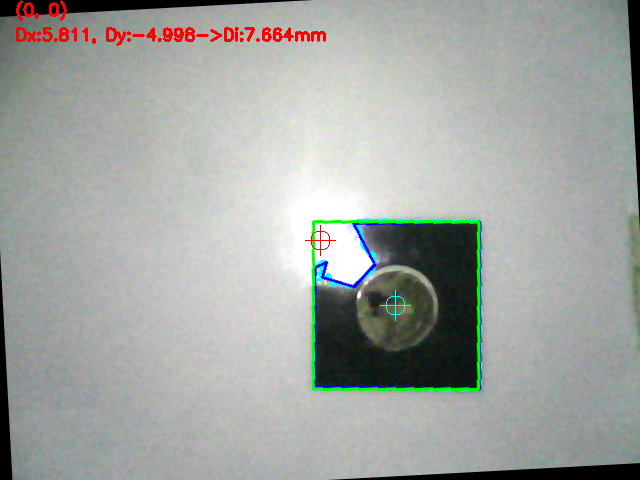
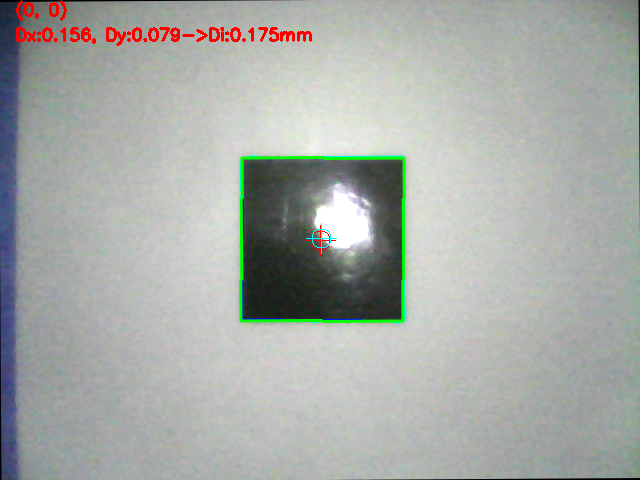
Updates to include graph of points

diff --git a/GroundControl-master/OpticalCalibration/opticalCalibrationCanvas.py b/GroundControl-master/OpticalCalibration/opticalCalibrationCanvas.py
@@ -109,11 +109,15 @@ class OpticalCalibrationCanvas(GridLayout):
     HomingBRX = +2
     HomingBRY = -2
     counter =0
+    bedHeight = 48*25.4
+    bedWidth = 96*25.4
 
     #def initialize(self):
 
     def initialize(self):
         xyErrors = self.data.config.get('Computed Settings', 'xyErrorArray')
+        bedHeight = self.data.config.get('Maslow Settings', 'bedHeight')
+        bedWidth = self.data.config.get('Maslow Settings', 'bedWidth')
         self.calErrorsX, self.calErrorsY = maslowSettings.parseErrorArray(xyErrors, True)
         #print str(xErrors[2][0])
 
@@ -132,6 +136,15 @@ class OpticalCalibrationCanvas(GridLayout):
 
         inAutoMode = False
         inAutoModeForFirstTime = True
+
+        mat = Matrix().scale(.2, .2, 1)
+        self.ids.opticalScatter.apply_transform(mat, (0,0))
+        moveVertical = self.bedHeight/2
+        moveHorizontal = self.bedWidth/2
+        mat = Matrix().translate(moveHorizontal, moveVertical, 0)
+        self.ids.opticalScatter.apply_transform(mat)
+
+        self.drawCalibration()
 
     def stopCut(self):
         self.data.quick_queue.put("!")
@@ -198,6 +211,24 @@ class OpticalCalibrationCanvas(GridLayout):
                 print "Value not int"
                 self.ids.bottomRightY.text = ""
 
+    def on_SaveCSV(self):
+        outFile = open("calibrationValues.csv","w")
+        line = ""
+        for y in range(7, -8, -1):
+            line = ""
+            for x in range(-15, 16, +1):
+                line += "{:.2f},".format(self.calErrorsX[x+15][7-y])
+            line +="\n"
+            outFile.write(line)
+        outFile.write("\n")
+        for y in range(7, -8, -1):
+            line = ""
+            for x in range(-15, 16, +1):
+                line += "{:.2f},".format(self.calErrorsY[x+15][7-y])
+            line +="\n"
+            outFile.write(line)
+        outFile.close()
+
     def on_Preset(self, preset):
 
         self.ids.topLeftX.text = str(self.presets[preset][0][0])
@@ -245,6 +276,60 @@ class OpticalCalibrationCanvas(GridLayout):
     #    print "len:"+str(len(c))+", tolerance:"+str(tolerance)
         return _c #_c is the smallest approximation we can find with four our more
 
+    def drawCalibration(self):
+
+        for y in range(7, -8, -1):
+            points = []
+            for x in range(-15, 16, +1):
+                points.append(x*3*25.4+self.bedWidth/2.0)
+                points.append(y*3*25.4+self.bedHeight/2.0)
+            with self.ids.opticalScatter.canvas:
+                Color(0,0,1)
+                Line(points=points)
+
+        for x in range(-15, 16, +1):
+            points = []
+            for y in range(7, -8, -1):
+                points.append(x*3*25.4+self.bedWidth/2.0)
+                points.append(y*3*25.4+self.bedHeight/2.0)
+            with self.ids.opticalScatter.canvas:
+                Color(0,0,1)
+                Line(points=points)
+
+        for y in range(7, -8, -1):
+            points = []
+            for x in range(-15, 16, +1):
+                points.append(x*3*25.4+self.calErrorsX[x+15][7-y]+self.bedWidth/2.0)
+                points.append(y*3*25.4+self.calErrorsY[x+15][7-y]+self.bedHeight/2.0)
+            with self.ids.opticalScatter.canvas:
+                Color(1,0,0)
+                Line(points=points)
+
+        for x in range(-15, 16, +1):
+            points = []
+            for y in range(7, -8, -1):
+                points.append(x*3*25.4+self.calErrorsX[x+15][7-y]+self.bedWidth/2.0)
+                points.append(y*3*25.4+self.calErrorsY[x+15][7-y]+self.bedHeight/2.0)
+            with self.ids.opticalScatter.canvas:
+                Color(1,0,0)
+                Line(points=points)
+
+    def on_touch_up(self, touch):
+
+        if touch.is_mouse_scrolling:
+            self.zoomCanvas(touch)
+
+    def zoomCanvas(self, touch):
+        if touch.is_mouse_scrolling:
+            scaleFactor = .1
+            if touch.button == 'scrollup':
+                mat = Matrix().scale(1-scaleFactor, 1-scaleFactor, 1)
+                self.ids.opticalScatter.apply_transform(mat, anchor = touch.pos)
+            elif touch.button == 'scrolldown':
+                mat = Matrix().scale(1+scaleFactor, 1+scaleFactor, 1)
+                self.ids.opticalScatter.apply_transform(mat, anchor = touch.pos)
+
+
     def updateScreenValues(self):
         self.ids.OpticalCalibrationDistance.text = " pixels\mm: {:.3f}\n".format(self.D)#Cal Error({:.3f},{:.3f})\n".format(self.D, self.calX, self.calY)
         calX = 0
@@ -264,6 +349,10 @@ class OpticalCalibrationCanvas(GridLayout):
         calX = math.sqrt(calX/count)
         calY = math.sqrt(calY/count)
         self.ids.OpticalCalibrationDistance.text += "X,Y Offset RMS: {:.3f}, {:.3f}\n".format(calX,calY)
+        self.drawCalibration()
+
+
+
 
 
     def removeOutliersAndAverage(self, data):
@@ -313,6 +402,7 @@ class OpticalCalibrationCanvas(GridLayout):
             self.HomingY = 0.0
             self.HomingPosX = minX
             self.HomingPosY = minY
+            self.HomingScanDirection = 1
             self.inAutoMode = True
         else:
             # note, the self.HomingX and self.HomingY are not reinitialzed here
@@ -360,7 +450,9 @@ class OpticalCalibrationCanvas(GridLayout):
         dyList = np.zeros(shape=(10))#[-9999.9 for x in range(10)]
         diList = np.zeros(shape=(10))#[-9999.9 for x in range(10)]
         print "here"
-        for x in range(10):  #review 10 images
+        x = 0
+        while True:
+        #for x in range(10):  #review 10 images
             #print x
             ret, image = self.ids.KivyCamera.getCapture()
             if ret:
@@ -423,7 +515,7 @@ class OpticalCalibrationCanvas(GridLayout):
                     sin = math.sin(angle*3.141592/180.0)
                     if (_angle<30):
                         _angle = _angle *-1.0
-                    print _angle
+                    #print _angle
                     xB,yB = self.translatePoint(xB,yB,xA,yA,_angle)
 
                     #cv2.drawContours(orig, [box.astype("int")], -1, (0, 255, 0), 2)
@@ -444,33 +536,43 @@ class OpticalCalibrationCanvas(GridLayout):
                     dxList[x] = Dx
                     dyList[x] = Dy
                     diList[x] = Dist
-        print "Done Analyzing"
+                    x +=1
+                    print "Processed Image #"+str(x)
+                    if (x==10):
+                        break
+        print "Done Analyzing Images.. Now Averaging and Removing Outliers"
         if dxList.ndim != 0 :
             avgDx, stdDx = self.removeOutliersAndAverage(dxList)
             avgDy, stdDy = self.removeOutliersAndAverage(dyList)
             avgDi, stdDi = self.removeOutliersAndAverage(diList)
-            cv2.putText(orig, "("+str(self.HomingPosX)+", "+str(self.HomingPosY)+")",(15, 15),cv2.FONT_HERSHEY_SIMPLEX, 0.55, colors[0], 2)
-            cv2.putText(orig, "Dx:{:.3f}, Dy:{:.3f}->Di:{:.3f}mm".format(Dx,Dy,Dist), (15, 40),cv2.FONT_HERSHEY_SIMPLEX, 0.55, colors[0], 2)
-            self.ids.MeasuredImage.update(orig)
-            self.HomingX += avgDx#-self.calX
-            self.HomingY += avgDy#-self.calY
-            print "testing location"
-            if doCalibrate!=True:  #its either True because you pressed the calibrate button or its a distance from the measurement callback.
-                if ((abs(avgDx)>=0.125) or (abs(avgDy)>=0.125)):
-                    print "Adjusting Location"
-                    self.HomeIn()
-                else:
-                    print "Averagedx="+str(avgDx)+", Averagedy="+str(avgDy)
-                    print str(self.HomingPosX+15)+", "+str(7-self.HomingPosY)+", "+str(self.HomingX)
-                    self.calErrorsX[self.HomingPosX+15][7-self.HomingPosY] = self.HomingX
-                    self.calErrorsY[self.HomingPosX+15][7-self.HomingPosY] = self.HomingY
-                    self.updateScreenValues()
-                    if (self.inAutoMode):
-                        self.on_AutoHome()
-                    else:
-                        print "Done"
+            if ( math.isnan(avgDx) or math.isnan(avgDy) ):
+                print "Value is not a number: "+str(avgDx)+", "+str(avgDy)
+                for x in range(len(dxList)):
+                    print str(x)+": "+dxList[x]+", "+dyList[y]
+                print "Aboring process."
             else:
-                self.updateScreenValues()
+                cv2.putText(orig, "("+str(self.HomingPosX)+", "+str(self.HomingPosY)+")",(15, 15),cv2.FONT_HERSHEY_SIMPLEX, 0.55, colors[0], 2)
+                cv2.putText(orig, "Dx:{:.3f}, Dy:{:.3f}->Di:{:.3f}mm".format(Dx,Dy,Dist), (15, 40),cv2.FONT_HERSHEY_SIMPLEX, 0.55, colors[0], 2)
+                self.ids.MeasuredImage.update(orig)
+                self.HomingX += avgDx#-self.calX
+                self.HomingY += avgDy#-self.calY
+                print "testing location"
+                if doCalibrate!=True:  #its either True because you pressed the calibrate button or its a distance from the measurement callback.
+                    if ((abs(avgDx)>=0.125) or (abs(avgDy)>=0.125)):
+                        print "Adjusting Location"
+                        self.HomeIn()
+                    else:
+                        print "Averagedx="+str(avgDx)+", Averagedy="+str(avgDy)
+                        print str(self.HomingPosX+15)+", "+str(7-self.HomingPosY)+", "+str(self.HomingX)
+                        self.calErrorsX[self.HomingPosX+15][7-self.HomingPosY] = self.HomingX
+                        self.calErrorsY[self.HomingPosX+15][7-self.HomingPosY] = self.HomingY
+                        self.updateScreenValues()
+                        if (self.inAutoMode):
+                            self.on_AutoHome()
+                        else:
+                            print "Done"
+                else:
+                    self.updateScreenValues()
         else:
             popup=Popup(title="Error", content = Label(text="Could not find square"), size_hint=(None,None), size=(400,400))
             popup.open()
